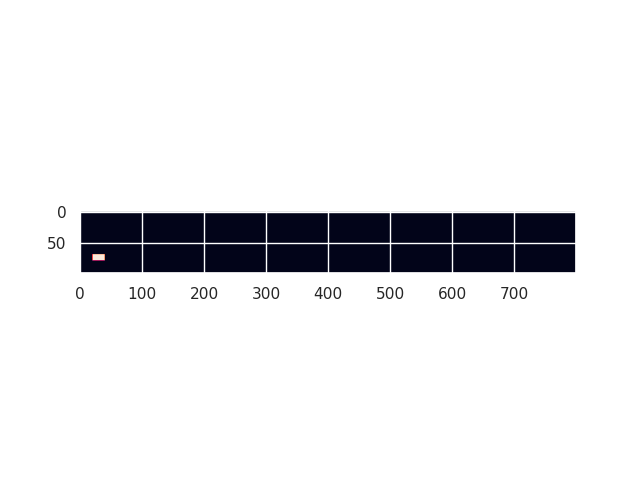
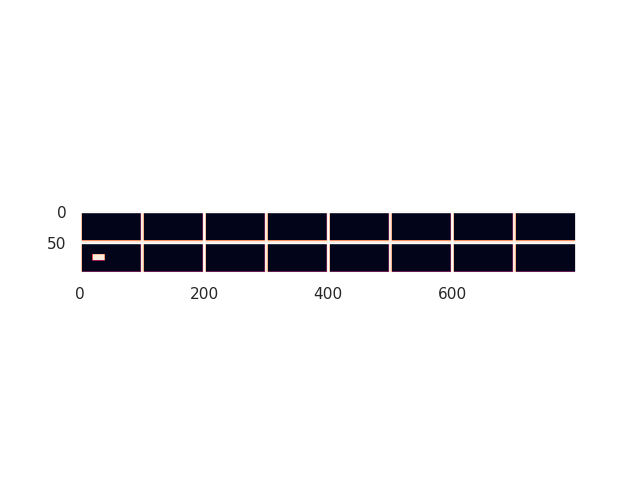
Added background grid representing pixels

Changed region(s): [[0.125, 0.4375, 0.9062, 0.625]]

diff --git a/main.py b/main.py
@@ -63,9 +63,66 @@ def get_input_vector(pixels, nx, ny):
     return input_vector
 
 
+def create_line_box():
+    '''
+    Creates a list cotaining the lines of a grid
+        - Could maybe get them from the number of lanes instead of lines
+            - n_lanes and n_neurons maybe
+
+    '''
+
+    n_vertical = 8              # number of vertical lines (first and last line might not show)
+    n_horizontal = 3            # number of horizontal lines
+
+    stepx = 100 
+    stepy = 50
+
+    line_box = []
+
+    # Generating vertical lines:
+    for i in range(n_vertical):
+
+        x = stepx*i
+
+        y1 = 0
+        y2 = 100
+
+        line = [(x,y1), (x, y2)]
+
+        line_box.append(line)
+
+    # Generating horizontal lines:
+    for i in range(n_horizontal):
+
+        y = stepy*i
+
+        x1 = 0
+        x2 = 800
+
+        line = [(x1,y), (x2, y)]
+
+        line_box.append(line)
+
+    return line_box
+
 
 
 def main():
+    ''' 
+    Interface for controlling two main objects:
+
+        - game  
+            -- Found in game/game.py
+            -- Contains the game being played 
+
+        - snn
+            -- Instance for a spiking neural network simulation
+            -- Found in snn/snn.py
+
+    Next:
+        - Draw grid
+        - Feed pixels to snn
+    '''
 
     #----------------------
     # Get game:
@@ -86,11 +143,24 @@ def main():
 
     fps = 30
 
+    # starting with a single line
+    game.line = [(0,0), (10, 10)]
+
+    lines_box = create_line_box()
+    game.grid_lines = lines_box
+
+    
+
     #----------------------
     # Start playing
-    playing = True
+    #----------------------
 
+    playing = True
     while playing:
+
+        #----------------------------------------------------------
+        # One iteration of this loop is one timestep in the game: 
+        #----------------------------------------------------------
 
         game.play_one_step()
         pixels = game.get_pixels()  # input for the snn
@@ -118,9 +188,13 @@ def main():
 
         #snn.simulate()
 
+        fig, ax = plt.subplots()
 
-        #plt.imshow(pixels)
-        #plt.savefig('output/testfig.png')
+        ax.imshow(pixels)
+        #ax.axis('off')
+        ax.set_xticks(np.arange(0, 800,step=200))
+        plt.savefig('output/testfig.png')
+        exit('asd')
 
 
 

diff --git a/game/game.py b/game/game.py
@@ -170,7 +170,41 @@ class CarGame:
 
 
     def render_background(self):
+        '''
+        Draws background 
+        '''
+        self.draw_grid()
         return
+
+
+    def draw_grid(self):
+        '''
+        - Draws a background grid that indicates the pixels 
+            - Using pg.draw.lines()
+
+        - Assumes that self.grid exists
+        '''
+
+        line_color = (153, 255, 187)    # RGB
+        line_width = 5                  # 1 is default
+
+        n_tot_lines = len(self.grid_lines)
+
+        for i in range(n_tot_lines):
+
+            print('wasd')
+            line = self.grid_lines[i]
+
+            start_line = line[0]       # (x, y) coordinate
+            end_line   = line[1]       # (x, y) coordinate
+
+            pg.draw.line(self.win, 
+                         line_color, 
+                         start_line, 
+                         end_line, 
+                         line_width)
+        
+        pass
 
 
     def render(self):
